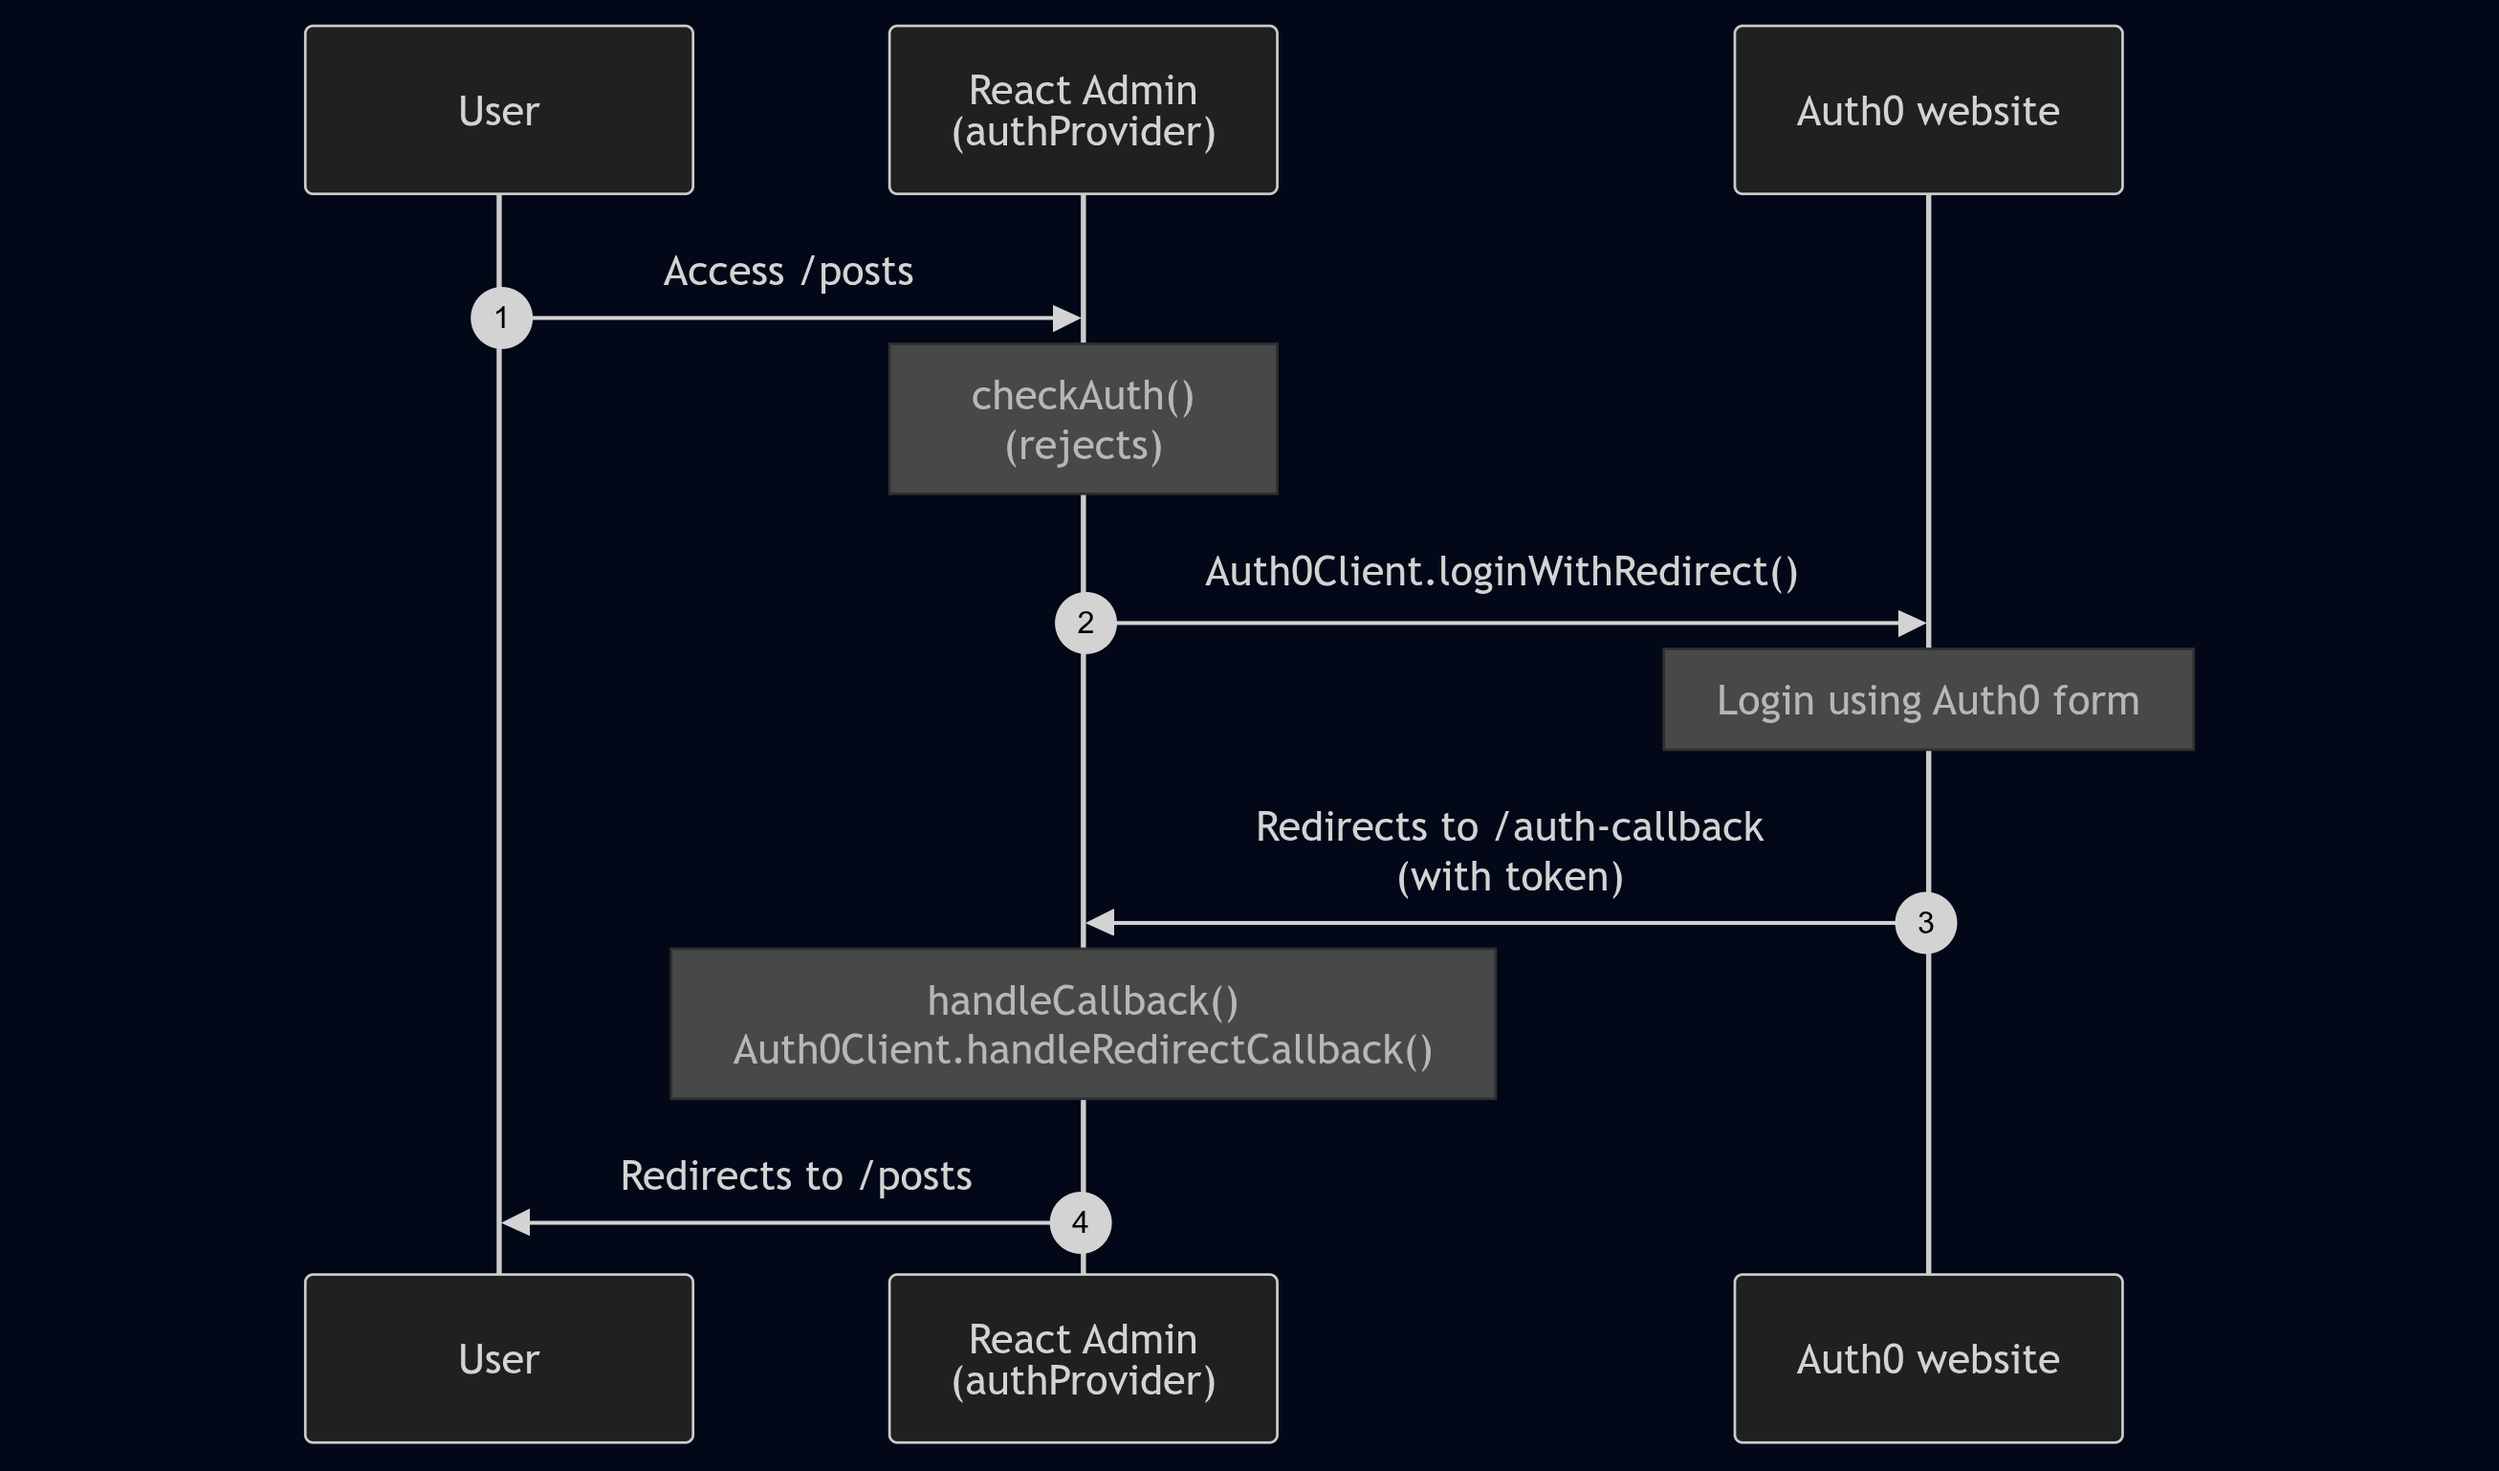
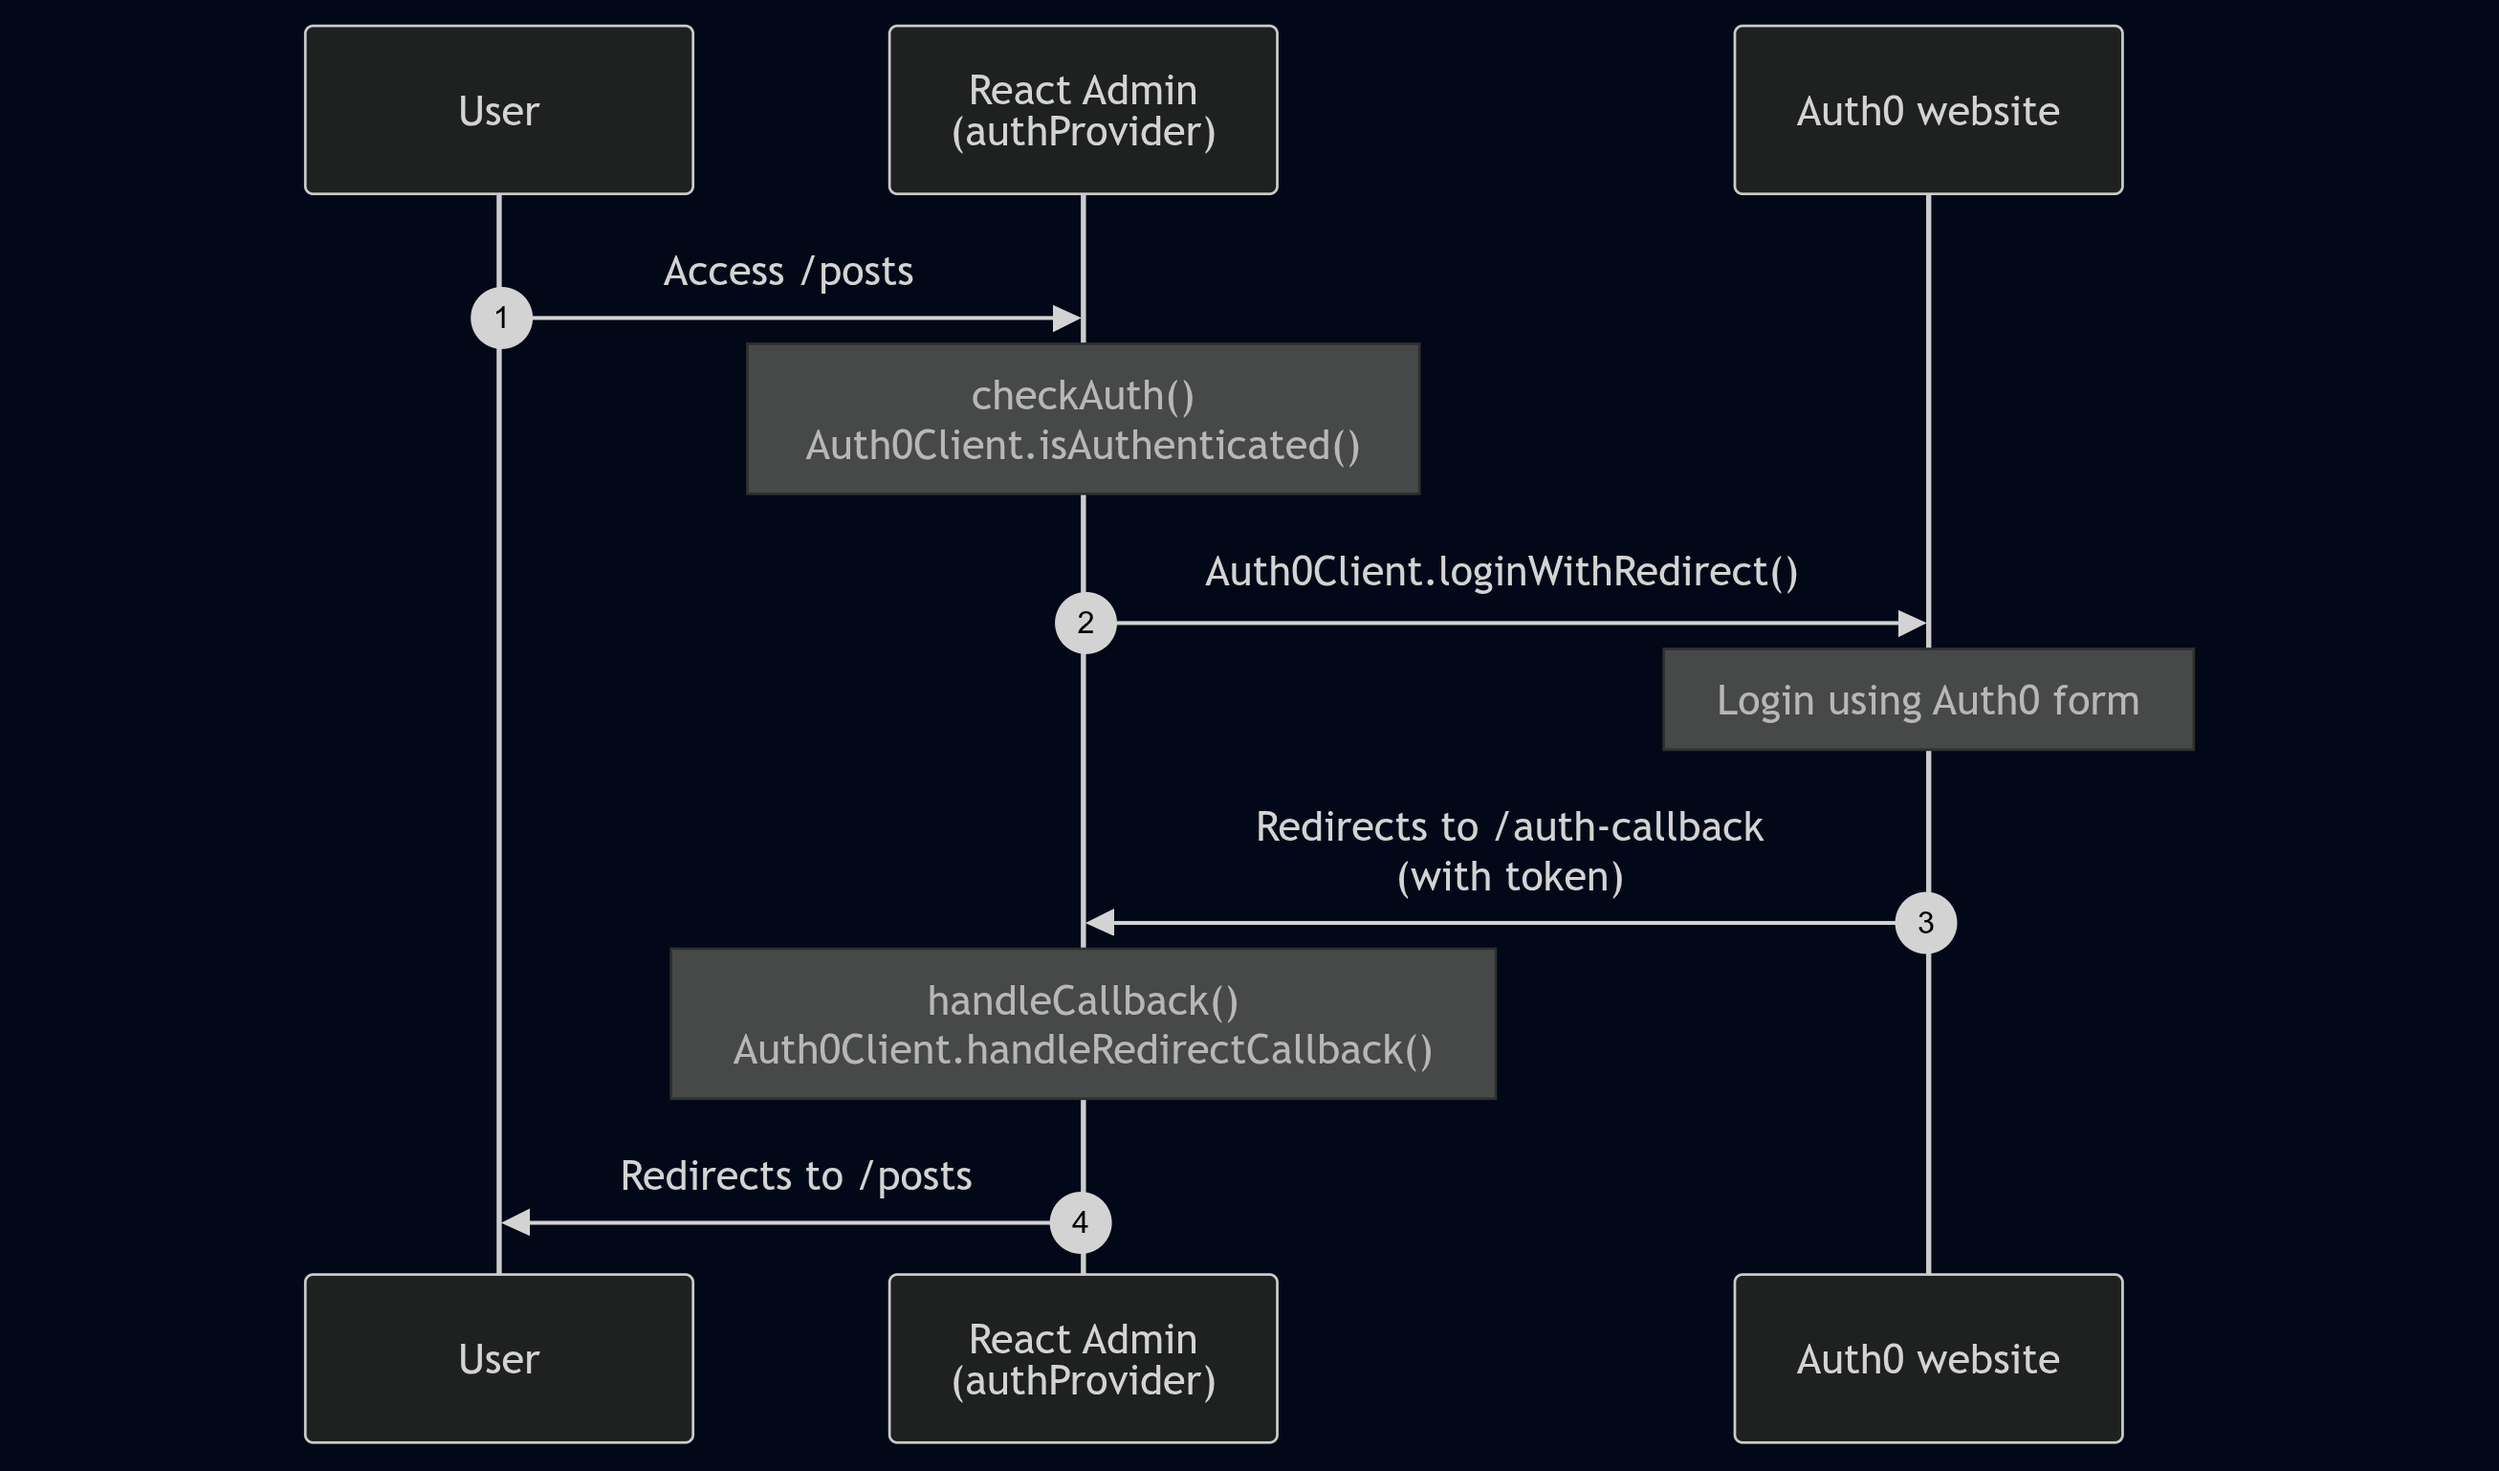
fix diagram

Changed region(s): [[0.279, 0.2185, 0.589, 0.3433]]

diff --git a/docs/Authentication.md b/docs/Authentication.md
@@ -438,7 +438,7 @@ sequenceDiagram
     participant RA as React Admin<br/>(authProvider)
     participant A as Auth0 website
     U->>RA: Access /posts
-    Note over RA: checkAuth()<br/>(rejects)
+    Note over RA: checkAuth()<br/>Auth0Client.isAuthenticated()
     RA->>A: Auth0Client.loginWithRedirect()
     Note over A: Login using Auth0 form
     A->>RA: Redirects to /auth-callback<br/>(with token)
